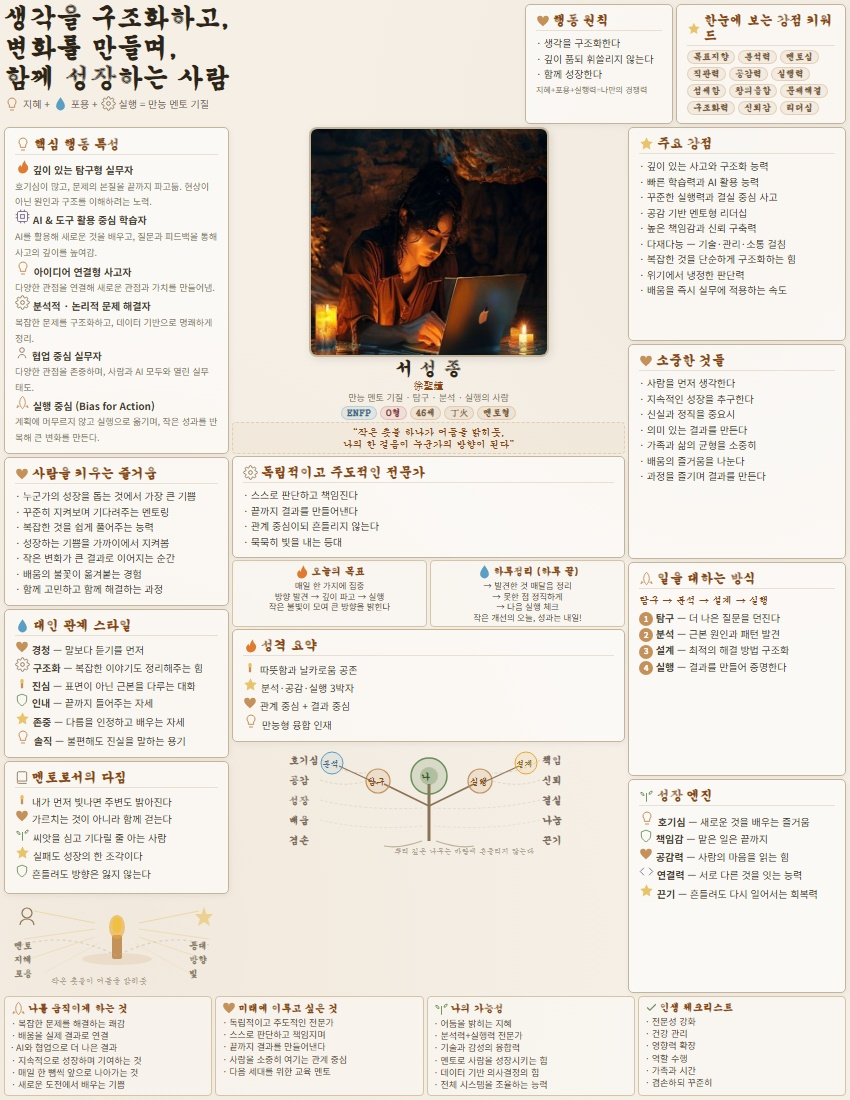
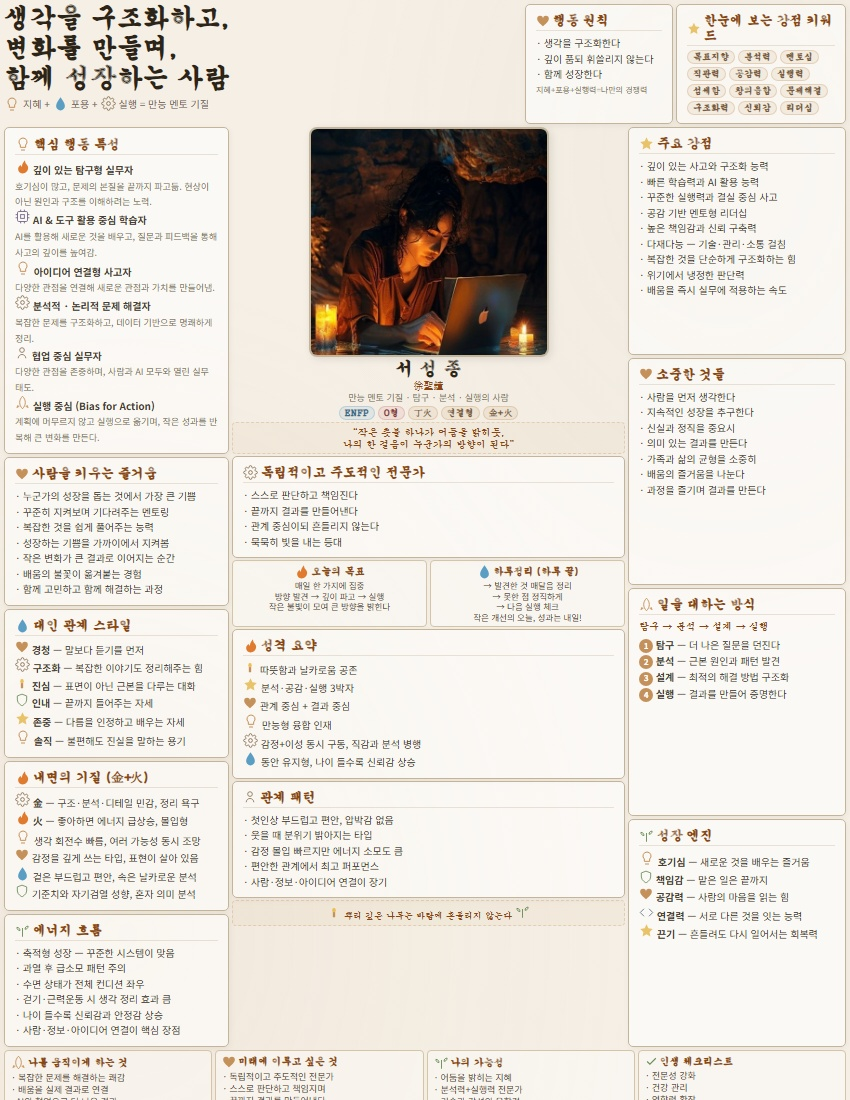
feat(infographic): 관상·성향 데이터 기반 대폭 개편
ssj-summary:
- 46세 제거, 멘토다짐 → '내면의 기질 (金+火)' 관상 분석 카드
- '에너지 흐름' 카드 신설 (축적형·과열주의·수면·운동)
- 성격요약 확장 (감정+이성 동시구동, 동안유지형)
- '관계 패턴' 카드 신설 (첫인상·몰입·편안한관계)
- 좌측 SVG → 콘텐츠 카드 2개로 교체 (여백 제거)
- 센터 나무SVG → 명언 quote 교체 (여백 제거)
- 태그: ENFP / O형 / 丁火 / 연결형 / 金+火

diff --git a/docs/ssj/ssj-infographic.html b/docs/ssj/ssj-infographic.html
@@ -105,50 +105,26 @@ body{width:850px;height:1100px;background:#f5efe6;
       </ul>
     </div>
     <div class="card">
-      <h3><svg viewBox="0 0 24 24" width="14" height="14" fill="none" stroke="#8b7355" stroke-width="1.5"><path d="M4 19V5a2 2 0 0 1 2-2h12a2 2 0 0 1 2 2v14H6a2 2 0 0 0 0 4h14"/></svg> 멘토로서의 다짐</h3>
+      <h3><svg viewBox="0 0 24 24" width="15" height="15" fill="#e07a2f" stroke="none"><path d="M12 23c-4 0-7-3-7-7 0-3 2-5 4-7 0 2 1 3 2 3 0-4 3-8 5-10 0 3 1 5 2 6 2 2 3 4 3 6 0 5-4 9-9 9z"/></svg> 내면의 기질 (金+火)</h3>
       <ul>
-        <li><svg viewBox="0 0 24 24" width="14" height="14"><rect x="10" y="12" width="4" height="9" rx="1" fill="#c4915a"/><ellipse cx="12" cy="9" rx="3" ry="4" fill="#e8a836" opacity=".7"/><ellipse cx="12" cy="8" rx="1.5" ry="2.5" fill="#f0c040"/></svg> 내가 먼저 빛나면 주변도 밝아진다</li>
-        <li><svg viewBox="0 0 24 24" width="14" height="14" fill="#c4915a" stroke="none"><path d="M12 21C8 17 2 13 2 8a5 5 0 0 1 10 0 5 5 0 0 1 10 0c0 5-6 9-10 13z"/></svg> 가르치는 것이 아니라 함께 걷는다</li>
-        <li><svg viewBox="0 0 24 24" width="15" height="15" fill="none" stroke="#6b8e5a" stroke-width="1.5"><path d="M12 22V8M8 12c-3 0-5-2-5-5 3 0 5 2 5 5M16 10c3 0 5-2 5-5-3 0-5 2-5 5"/></svg> 씨앗을 심고 기다릴 줄 아는 사람</li>
-        <li><svg viewBox="0 0 24 24" width="15" height="15" fill="#e8c36a" stroke="none"><path d="M12 2l3 6.5 7 1-5 5 1.2 7L12 18l-6.2 3.5L7 14.5l-5-5 7-1z"/></svg> 실패도 성장의 한 조각이다</li>
-        <li><svg viewBox="0 0 24 24" width="14" height="14" fill="none" stroke="#6b8e5a" stroke-width="1.5"><path d="M12 22s8-4 8-10V5l-8-3-8 3v7c0 6 8 10 8 10z"/></svg> 흔들려도 방향은 잃지 않는다</li>
+        <li><svg viewBox="0 0 24 24" width="15" height="15" fill="none" stroke="#8b7355" stroke-width="1.5"><path d="M12 15a3 3 0 1 0 0-6 3 3 0 0 0 0 6z"/><path d="M19.4 15a1.65 1.65 0 0 0 .33 1.82l.06.06a2 2 0 1 1-2.83 2.83l-.06-.06a1.65 1.65 0 0 0-1.82-.33 1.65 1.65 0 0 0-1 1.51V21a2 2 0 0 1-4 0v-.09A1.65 1.65 0 0 0 9 19.4a1.65 1.65 0 0 0-1.82.33l-.06.06a2 2 0 1 1-2.83-2.83l.06-.06A1.65 1.65 0 0 0 4.68 15a1.65 1.65 0 0 0-1.51-1H3a2 2 0 0 1 0-4h.09A1.65 1.65 0 0 0 4.6 9a1.65 1.65 0 0 0-.33-1.82l-.06-.06a2 2 0 1 1 2.83-2.83l.06.06A1.65 1.65 0 0 0 9 4.68a1.65 1.65 0 0 0 1-1.51V3a2 2 0 0 1 4 0v.09a1.65 1.65 0 0 0 1 1.51 1.65 1.65 0 0 0 1.82-.33l.06-.06a2 2 0 1 1 2.83 2.83l-.06.06A1.65 1.65 0 0 0 19.4 9a1.65 1.65 0 0 0 1.51 1H21a2 2 0 0 1 0 4h-.09a1.65 1.65 0 0 0-1.51 1z"/></svg> <b>金</b> — 구조·분석·디테일 민감, 정리 욕구</li>
+        <li><svg viewBox="0 0 24 24" width="15" height="15" fill="#e07a2f" stroke="none"><path d="M12 23c-4 0-7-3-7-7 0-3 2-5 4-7 0 2 1 3 2 3 0-4 3-8 5-10 0 3 1 5 2 6 2 2 3 4 3 6 0 5-4 9-9 9z"/></svg> <b>火</b> — 좋아하면 에너지 급상승, 몰입형</li>
+        <li><svg viewBox="0 0 24 24" width="16" height="16" fill="none" stroke="#c4915a" stroke-width="1.5"><path d="M9 21h6M12 3a6 6 0 0 0-4 10.5V17h8v-3.5A6 6 0 0 0 12 3z"/></svg> 생각 회전수 빠름, 여러 가능성 동시 조망</li>
+        <li><svg viewBox="0 0 24 24" width="14" height="14" fill="#c4915a" stroke="none"><path d="M12 21C8 17 2 13 2 8a5 5 0 0 1 10 0 5 5 0 0 1 10 0c0 5-6 9-10 13z"/></svg> 감정을 깊게 쓰는 타입, 표현이 살아 있음</li>
+        <li><svg viewBox="0 0 24 24" width="15" height="15" fill="#5a9ec4" stroke="none"><path d="M12 2C8 8 5 12 5 16a7 7 0 0 0 14 0c0-4-3-8-7-14z"/></svg> 겉은 부드럽고 편안, 속은 날카로운 분석</li>
+        <li><svg viewBox="0 0 24 24" width="14" height="14" fill="none" stroke="#6b8e5a" stroke-width="1.5"><path d="M12 22s8-4 8-10V5l-8-3-8 3v7c0 6 8 10 8 10z"/></svg> 기준치와 자기검열 성향, 혼자 의미 분석</li>
       </ul>
     </div>
-    <div style="text-align:center;padding:4px 0 2px">
-      <svg width="215" height="85" viewBox="0 0 215 85">
-        <!-- 촛불 중앙 -->
-        <ellipse cx="108" cy="58" rx="35" ry="6" fill="rgba(196,145,90,.15)"/>
-        <rect x="103" y="34" width="10" height="24" rx="2" fill="#c4915a"/>
-        <ellipse cx="108" cy="26" rx="8" ry="12" fill="#e8a836" opacity=".6"/>
-        <ellipse cx="108" cy="24" rx="4.5" ry="8" fill="#f0c040"/>
-        <!-- 빛줄기 좌 -->
-        <line x1="86" y1="22" x2="25" y2="10" stroke="#e8c36a" stroke-width="1" opacity=".45"/>
-        <line x1="86" y1="28" x2="15" y2="38" stroke="#e8c36a" stroke-width="1" opacity=".35"/>
-        <line x1="86" y1="36" x2="20" y2="58" stroke="#e8c36a" stroke-width="1" opacity=".3"/>
-        <line x1="90" y1="42" x2="35" y2="72" stroke="#e8c36a" stroke-width=".8" opacity=".2"/>
-        <!-- 빛줄기 우 -->
-        <line x1="130" y1="22" x2="190" y2="10" stroke="#e8c36a" stroke-width="1" opacity=".45"/>
-        <line x1="130" y1="28" x2="200" y2="38" stroke="#e8c36a" stroke-width="1" opacity=".35"/>
-        <line x1="130" y1="36" x2="195" y2="58" stroke="#e8c36a" stroke-width="1" opacity=".3"/>
-        <line x1="126" y1="42" x2="180" y2="72" stroke="#e8c36a" stroke-width=".8" opacity=".2"/>
-        <!-- 좌측 아이콘: 사람 -->
-        <circle cx="18" cy="12" r="5" fill="none" stroke="#8b7355" stroke-width="1.2"/>
-        <path d="M11 24c0-4 3.5-6 7-6s7 2 7 6" fill="none" stroke="#8b7355" stroke-width="1.2"/>
-        <!-- 우측 아이콘: 별 -->
-        <polygon points="195,6 197.5,13 204,13 199,18 201,25 195,21 189,25 191,18 186,13 192.5,13" fill="#e8c36a" opacity=".65"/>
-        <!-- 좌측 텍스트 -->
-        <text x="5" y="48" font-size="9" fill="#8a7a68" font-family="'Gaegu',cursive" font-weight="700">멘토</text>
-        <text x="5" y="62" font-size="9" fill="#8a7a68" font-family="'Gaegu',cursive" font-weight="700">지혜</text>
-        <text x="5" y="76" font-size="9" fill="#8a7a68" font-family="'Gaegu',cursive" font-weight="700">포용</text>
-        <!-- 우측 텍스트 -->
-        <text x="180" y="48" font-size="9" fill="#8a7a68" font-family="'Gaegu',cursive" font-weight="700">등대</text>
-        <text x="180" y="62" font-size="9" fill="#8a7a68" font-family="'Gaegu',cursive" font-weight="700">방향</text>
-        <text x="180" y="76" font-size="9" fill="#8a7a68" font-family="'Gaegu',cursive" font-weight="700">빛</text>
-        <!-- 경로 점선 -->
-        <path d="M12 44 Q60 30 108 55 Q155 30 200 44" fill="none" stroke="#c4b49a" stroke-width="1.2" stroke-dasharray="3,3" opacity=".45"/>
-        <!-- 하단 명언 -->
-        <text x="42" y="83" font-size="8" fill="#8a7a68" font-family="'Gaegu',cursive" opacity=".6">작은 촛불이 어둠을 밝히듯</text>
-      </svg>
+    <div class="card">
+      <h3><svg viewBox="0 0 24 24" width="15" height="15" fill="none" stroke="#6b8e5a" stroke-width="1.5"><path d="M12 22V8M8 12c-3 0-5-2-5-5 3 0 5 2 5 5M16 10c3 0 5-2 5-5-3 0-5 2-5 5"/></svg> 에너지 흐름</h3>
+      <ul>
+        <li>&middot; 축적형 성장 — 꾸준한 시스템이 맞음</li>
+        <li>&middot; 과열 후 급소모 패턴 주의</li>
+        <li>&middot; 수면 상태가 전체 컨디션 좌우</li>
+        <li>&middot; 걷기·근력운동 시 생각 정리 효과 큼</li>
+        <li>&middot; 나이 들수록 신뢰감과 안정감 상승</li>
+        <li>&middot; 사람·정보·아이디어 연결이 핵심 장점</li>
+      </ul>
     </div>
   </div>
 
@@ -161,9 +137,9 @@ body{width:850px;height:1100px;background:#f5efe6;
       <div style="margin-top:2px;display:flex;gap:3px;justify-content:center">
         <span class="tag" style="background:rgba(90,158,196,.12);border-color:rgba(90,158,196,.3);color:#3a6a8a">ENFP</span>
         <span class="tag" style="background:rgba(196,90,90,.10);border-color:rgba(196,90,90,.25);color:#8a3a3a">O형</span>
-        <span class="tag">46세</span>
         <span class="tag">丁火</span>
-        <span class="tag">멘토형</span>
+        <span class="tag">연결형</span>
+        <span class="tag">金+火</span>
       </div>
     </div>
     <div class="quote">
@@ -195,58 +171,22 @@ body{width:850px;height:1100px;background:#f5efe6;
         <li><svg viewBox="0 0 24 24" width="15" height="15" fill="#e8c36a" stroke="none"><path d="M12 2l3 6.5 7 1-5 5 1.2 7L12 18l-6.2 3.5L7 14.5l-5-5 7-1z"/></svg> 분석·공감·실행 3박자</li>
         <li><svg viewBox="0 0 24 24" width="14" height="14" fill="#c4915a" stroke="none"><path d="M12 21C8 17 2 13 2 8a5 5 0 0 1 10 0 5 5 0 0 1 10 0c0 5-6 9-10 13z"/></svg> 관계 중심 + 결과 중심</li>
         <li><svg viewBox="0 0 24 24" width="16" height="16" fill="none" stroke="#c4915a" stroke-width="1.5"><path d="M9 21h6M12 3a6 6 0 0 0-4 10.5V17h8v-3.5A6 6 0 0 0 12 3z"/></svg> 만능형 융합 인재</li>
+        <li><svg viewBox="0 0 24 24" width="15" height="15" fill="none" stroke="#8b7355" stroke-width="1.5"><path d="M12 15a3 3 0 1 0 0-6 3 3 0 0 0 0 6z"/><path d="M19.4 15a1.65 1.65 0 0 0 .33 1.82l.06.06a2 2 0 1 1-2.83 2.83l-.06-.06a1.65 1.65 0 0 0-1.82-.33 1.65 1.65 0 0 0-1 1.51V21a2 2 0 0 1-4 0v-.09A1.65 1.65 0 0 0 9 19.4a1.65 1.65 0 0 0-1.82.33l-.06.06a2 2 0 1 1-2.83-2.83l.06-.06A1.65 1.65 0 0 0 4.68 15a1.65 1.65 0 0 0-1.51-1H3a2 2 0 0 1 0-4h.09A1.65 1.65 0 0 0 4.6 9a1.65 1.65 0 0 0-.33-1.82l-.06-.06a2 2 0 1 1 2.83-2.83l.06.06A1.65 1.65 0 0 0 9 4.68a1.65 1.65 0 0 0 1-1.51V3a2 2 0 0 1 4 0v.09a1.65 1.65 0 0 0 1 1.51 1.65 1.65 0 0 0 1.82-.33l.06-.06a2 2 0 1 1 2.83 2.83l-.06.06A1.65 1.65 0 0 0 19.4 9a1.65 1.65 0 0 0 1.51 1H21a2 2 0 0 1 0 4h-.09a1.65 1.65 0 0 0-1.51 1z"/></svg> 감정+이성 동시 구동, 직감과 분석 병행</li>
+        <li><svg viewBox="0 0 24 24" width="15" height="15" fill="#5a9ec4" stroke="none"><path d="M12 2C8 8 5 12 5 16a7 7 0 0 0 14 0c0-4-3-8-7-14z"/></svg> 동안 유지형, 나이 들수록 신뢰감 상승</li>
       </ul>
     </div>
-    <div style="width:100%;text-align:center;padding:2px 0">
-      <svg width="290" height="110" viewBox="0 0 290 110">
-        <!-- 성장 나무 중앙 -->
-        <line x1="145" y1="95" x2="145" y2="38" stroke="#8b7355" stroke-width="3"/>
-        <circle cx="145" cy="30" r="18" fill="rgba(107,142,90,.2)" stroke="#6b8e5a" stroke-width="1.5"/>
-        <circle cx="145" cy="30" r="9" fill="rgba(107,142,90,.35)"/>
-        <text x="137" y="34" font-size="9" fill="#3a5a2a" font-weight="700" font-family="'Gaegu',cursive">나</text>
-        <!-- 좌측 가지 -->
-        <line x1="145" y1="60" x2="100" y2="38" stroke="#8b7355" stroke-width="1.8"/>
-        <circle cx="94" cy="35" r="12" fill="rgba(196,145,90,.15)" stroke="#c4915a" stroke-width="1.2"/>
-        <text x="83" y="39" font-size="9" fill="#8b4513" font-family="'Gaegu',cursive">탐구</text>
-        <!-- 우측 가지 -->
-        <line x1="145" y1="60" x2="190" y2="38" stroke="#8b7355" stroke-width="1.8"/>
-        <circle cx="196" cy="35" r="12" fill="rgba(196,145,90,.15)" stroke="#c4915a" stroke-width="1.2"/>
-        <text x="186" y="39" font-size="9" fill="#8b4513" font-family="'Gaegu',cursive">실행</text>
-        <!-- 맨좌 가지 -->
-        <line x1="94" y1="38" x2="55" y2="20" stroke="#8b7355" stroke-width="1.2"/>
-        <circle cx="48" cy="17" r="11" fill="rgba(90,158,196,.1)" stroke="#5a9ec4" stroke-width="1"/>
-        <text x="38" y="21" font-size="8.5" fill="#3a6a8a" font-family="'Gaegu',cursive">분석</text>
-        <!-- 맨우 가지 -->
-        <line x1="196" y1="38" x2="235" y2="20" stroke="#8b7355" stroke-width="1.2"/>
-        <circle cx="242" cy="17" r="11" fill="rgba(232,163,54,.1)" stroke="#e8a836" stroke-width="1"/>
-        <text x="232" y="21" font-size="8.5" fill="#8b6a13" font-family="'Gaegu',cursive">설계</text>
-        <!-- 좌측 키워드 세로 -->
-        <text x="5" y="18" font-size="10" fill="#7a6b5a" font-family="'Gaegu',cursive" font-weight="700">호기심</text>
-        <text x="5" y="38" font-size="10" fill="#7a6b5a" font-family="'Gaegu',cursive" font-weight="700">공감</text>
-        <text x="5" y="58" font-size="10" fill="#7a6b5a" font-family="'Gaegu',cursive" font-weight="700">성장</text>
-        <text x="5" y="78" font-size="10" fill="#7a6b5a" font-family="'Gaegu',cursive" font-weight="700">배움</text>
-        <text x="5" y="98" font-size="10" fill="#7a6b5a" font-family="'Gaegu',cursive" font-weight="700">겸손</text>
-        <!-- 연결선 좌 -->
-        <path d="M38 14 Q60 28 82 27" fill="none" stroke="#c4b49a" stroke-width="1" stroke-dasharray="3,2" opacity=".5"/>
-        <path d="M36 34 Q60 42 82 35" fill="none" stroke="#c4b49a" stroke-width="1" stroke-dasharray="3,2" opacity=".4"/>
-        <path d="M36 54 Q80 65 140 62" fill="none" stroke="#c4b49a" stroke-width="1" stroke-dasharray="3,2" opacity=".3"/>
-        <path d="M36 74 Q80 85 140 80" fill="none" stroke="#c4b49a" stroke-width="1" stroke-dasharray="3,2" opacity=".25"/>
-        <!-- 우측 키워드 세로 -->
-        <text x="258" y="18" font-size="10" fill="#7a6b5a" font-family="'Gaegu',cursive" font-weight="700">책임</text>
-        <text x="258" y="38" font-size="10" fill="#7a6b5a" font-family="'Gaegu',cursive" font-weight="700">신뢰</text>
-        <text x="258" y="58" font-size="10" fill="#7a6b5a" font-family="'Gaegu',cursive" font-weight="700">결실</text>
-        <text x="258" y="78" font-size="10" fill="#7a6b5a" font-family="'Gaegu',cursive" font-weight="700">나눔</text>
-        <text x="258" y="98" font-size="10" fill="#7a6b5a" font-family="'Gaegu',cursive" font-weight="700">끈기</text>
-        <!-- 연결선 우 -->
-        <path d="M256 14 Q235 28 208 27" fill="none" stroke="#c4b49a" stroke-width="1" stroke-dasharray="3,2" opacity=".5"/>
-        <path d="M256 34 Q235 42 208 35" fill="none" stroke="#c4b49a" stroke-width="1" stroke-dasharray="3,2" opacity=".4"/>
-        <path d="M256 54 Q210 65 150 62" fill="none" stroke="#c4b49a" stroke-width="1" stroke-dasharray="3,2" opacity=".3"/>
-        <path d="M256 74 Q210 85 150 80" fill="none" stroke="#c4b49a" stroke-width="1" stroke-dasharray="3,2" opacity=".25"/>
-        <!-- 뿌리 -->
-        <path d="M138 95 Q115 103 100 100" fill="none" stroke="#8b7355" stroke-width="1.2" opacity=".5"/>
-        <path d="M152 95 Q175 103 190 100" fill="none" stroke="#8b7355" stroke-width="1.2" opacity=".5"/>
-        <text x="110" y="108" font-size="7.5" fill="#8a7a68" font-family="'Gaegu',cursive" opacity=".6">뿌리 깊은 나무는 바람에 흔들리지 않는다</text>
-      </svg>
+    <div class="card" style="width:100%;text-align:left">
+      <h3><svg viewBox="0 0 24 24" width="14" height="14" fill="none" stroke="#8b7355" stroke-width="1.5"><circle cx="12" cy="7" r="4"/><path d="M5.5 21c0-3.5 3-6.5 6.5-6.5s6.5 3 6.5 6.5"/></svg> 관계 패턴</h3>
+      <ul>
+        <li>&middot; 첫인상 부드럽고 편안, 압박감 없음</li>
+        <li>&middot; 웃을 때 분위기 밝아지는 타입</li>
+        <li>&middot; 감정 몰입 빠르지만 에너지 소모도 큼</li>
+        <li>&middot; 편안한 관계에서 최고 퍼포먼스</li>
+        <li>&middot; 사람·정보·아이디어 연결이 장기</li>
+      </ul>
+    </div>
+    <div class="quote" style="width:100%">
+      <p style="font-size:9px"><svg viewBox="0 0 24 24" width="14" height="14"><rect x="10" y="12" width="4" height="9" rx="1" fill="#c4915a"/><ellipse cx="12" cy="9" rx="3" ry="4" fill="#e8a836" opacity=".7"/><ellipse cx="12" cy="8" rx="1.5" ry="2.5" fill="#f0c040"/></svg> 뿌리 깊은 나무는 바람에 흔들리지 않는다 <svg viewBox="0 0 24 24" width="15" height="15" fill="none" stroke="#6b8e5a" stroke-width="1.5"><path d="M12 22V8M8 12c-3 0-5-2-5-5 3 0 5 2 5 5M16 10c3 0 5-2 5-5-3 0-5 2-5 5"/></svg></p>
     </div>
   </div>
 

diff --git a/docs/ssj/render-ssj.py b/docs/ssj/render-ssj.py
@@ -345,50 +345,26 @@ body{{width:850px;height:1100px;background:#f5efe6;
       </ul>
     </div>
     <div class="card">
-      <h3>{I['book']} 멘토로서의 다짐</h3>
+      <h3>{I['fire']} 내면의 기질 (金+火)</h3>
       <ul>
-        <li>{I['candle']} 내가 먼저 빛나면 주변도 밝아진다</li>
-        <li>{I['heart']} 가르치는 것이 아니라 함께 걷는다</li>
-        <li>{I['plant']} 씨앗을 심고 기다릴 줄 아는 사람</li>
-        <li>{I['star']} 실패도 성장의 한 조각이다</li>
-        <li>{I['shield']} 흔들려도 방향은 잃지 않는다</li>
+        <li>{I['gear']} <b>金</b> — 구조·분석·디테일 민감, 정리 욕구</li>
+        <li>{I['fire']} <b>火</b> — 좋아하면 에너지 급상승, 몰입형</li>
+        <li>{I['bulb']} 생각 회전수 빠름, 여러 가능성 동시 조망</li>
+        <li>{I['heart']} 감정을 깊게 쓰는 타입, 표현이 살아 있음</li>
+        <li>{I['water']} 겉은 부드럽고 편안, 속은 날카로운 분석</li>
+        <li>{I['shield']} 기준치와 자기검열 성향, 혼자 의미 분석</li>
       </ul>
     </div>
-    <div style="text-align:center;padding:4px 0 2px">
-      <svg width="215" height="85" viewBox="0 0 215 85">
-        <!-- 촛불 중앙 -->
-        <ellipse cx="108" cy="58" rx="35" ry="6" fill="rgba(196,145,90,.15)"/>
-        <rect x="103" y="34" width="10" height="24" rx="2" fill="#c4915a"/>
-        <ellipse cx="108" cy="26" rx="8" ry="12" fill="#e8a836" opacity=".6"/>
-        <ellipse cx="108" cy="24" rx="4.5" ry="8" fill="#f0c040"/>
-        <!-- 빛줄기 좌 -->
-        <line x1="86" y1="22" x2="25" y2="10" stroke="#e8c36a" stroke-width="1" opacity=".45"/>
-        <line x1="86" y1="28" x2="15" y2="38" stroke="#e8c36a" stroke-width="1" opacity=".35"/>
-        <line x1="86" y1="36" x2="20" y2="58" stroke="#e8c36a" stroke-width="1" opacity=".3"/>
-        <line x1="90" y1="42" x2="35" y2="72" stroke="#e8c36a" stroke-width=".8" opacity=".2"/>
-        <!-- 빛줄기 우 -->
-        <line x1="130" y1="22" x2="190" y2="10" stroke="#e8c36a" stroke-width="1" opacity=".45"/>
-        <line x1="130" y1="28" x2="200" y2="38" stroke="#e8c36a" stroke-width="1" opacity=".35"/>
-        <line x1="130" y1="36" x2="195" y2="58" stroke="#e8c36a" stroke-width="1" opacity=".3"/>
-        <line x1="126" y1="42" x2="180" y2="72" stroke="#e8c36a" stroke-width=".8" opacity=".2"/>
-        <!-- 좌측 아이콘: 사람 -->
-        <circle cx="18" cy="12" r="5" fill="none" stroke="#8b7355" stroke-width="1.2"/>
-        <path d="M11 24c0-4 3.5-6 7-6s7 2 7 6" fill="none" stroke="#8b7355" stroke-width="1.2"/>
-        <!-- 우측 아이콘: 별 -->
-        <polygon points="195,6 197.5,13 204,13 199,18 201,25 195,21 189,25 191,18 186,13 192.5,13" fill="#e8c36a" opacity=".65"/>
-        <!-- 좌측 텍스트 -->
-        <text x="5" y="48" font-size="9" fill="#8a7a68" font-family="'Gaegu',cursive" font-weight="700">멘토</text>
-        <text x="5" y="62" font-size="9" fill="#8a7a68" font-family="'Gaegu',cursive" font-weight="700">지혜</text>
-        <text x="5" y="76" font-size="9" fill="#8a7a68" font-family="'Gaegu',cursive" font-weight="700">포용</text>
-        <!-- 우측 텍스트 -->
-        <text x="180" y="48" font-size="9" fill="#8a7a68" font-family="'Gaegu',cursive" font-weight="700">등대</text>
-        <text x="180" y="62" font-size="9" fill="#8a7a68" font-family="'Gaegu',cursive" font-weight="700">방향</text>
-        <text x="180" y="76" font-size="9" fill="#8a7a68" font-family="'Gaegu',cursive" font-weight="700">빛</text>
-        <!-- 경로 점선 -->
-        <path d="M12 44 Q60 30 108 55 Q155 30 200 44" fill="none" stroke="#c4b49a" stroke-width="1.2" stroke-dasharray="3,3" opacity=".45"/>
-        <!-- 하단 명언 -->
-        <text x="42" y="83" font-size="8" fill="#8a7a68" font-family="'Gaegu',cursive" opacity=".6">작은 촛불이 어둠을 밝히듯</text>
-      </svg>
+    <div class="card">
+      <h3>{I['plant']} 에너지 흐름</h3>
+      <ul>
+        <li>&middot; 축적형 성장 — 꾸준한 시스템이 맞음</li>
+        <li>&middot; 과열 후 급소모 패턴 주의</li>
+        <li>&middot; 수면 상태가 전체 컨디션 좌우</li>
+        <li>&middot; 걷기·근력운동 시 생각 정리 효과 큼</li>
+        <li>&middot; 나이 들수록 신뢰감과 안정감 상승</li>
+        <li>&middot; 사람·정보·아이디어 연결이 핵심 장점</li>
+      </ul>
     </div>
   </div>
 
@@ -401,9 +377,9 @@ body{{width:850px;height:1100px;background:#f5efe6;
       <div style="margin-top:2px;display:flex;gap:3px;justify-content:center">
         <span class="tag" style="background:rgba(90,158,196,.12);border-color:rgba(90,158,196,.3);color:#3a6a8a">ENFP</span>
         <span class="tag" style="background:rgba(196,90,90,.10);border-color:rgba(196,90,90,.25);color:#8a3a3a">O형</span>
-        <span class="tag">46세</span>
         <span class="tag">丁火</span>
-        <span class="tag">멘토형</span>
+        <span class="tag">연결형</span>
+        <span class="tag">金+火</span>
       </div>
     </div>
     <div class="quote">
@@ -435,58 +411,22 @@ body{{width:850px;height:1100px;background:#f5efe6;
         <li>{I['star']} 분석·공감·실행 3박자</li>
         <li>{I['heart']} 관계 중심 + 결과 중심</li>
         <li>{I['bulb']} 만능형 융합 인재</li>
+        <li>{I['gear']} 감정+이성 동시 구동, 직감과 분석 병행</li>
+        <li>{I['water']} 동안 유지형, 나이 들수록 신뢰감 상승</li>
       </ul>
     </div>
-    <div style="width:100%;text-align:center;padding:2px 0">
-      <svg width="290" height="110" viewBox="0 0 290 110">
-        <!-- 성장 나무 중앙 -->
-        <line x1="145" y1="95" x2="145" y2="38" stroke="#8b7355" stroke-width="3"/>
-        <circle cx="145" cy="30" r="18" fill="rgba(107,142,90,.2)" stroke="#6b8e5a" stroke-width="1.5"/>
-        <circle cx="145" cy="30" r="9" fill="rgba(107,142,90,.35)"/>
-        <text x="137" y="34" font-size="9" fill="#3a5a2a" font-weight="700" font-family="'Gaegu',cursive">나</text>
-        <!-- 좌측 가지 -->
-        <line x1="145" y1="60" x2="100" y2="38" stroke="#8b7355" stroke-width="1.8"/>
-        <circle cx="94" cy="35" r="12" fill="rgba(196,145,90,.15)" stroke="#c4915a" stroke-width="1.2"/>
-        <text x="83" y="39" font-size="9" fill="#8b4513" font-family="'Gaegu',cursive">탐구</text>
-        <!-- 우측 가지 -->
-        <line x1="145" y1="60" x2="190" y2="38" stroke="#8b7355" stroke-width="1.8"/>
-        <circle cx="196" cy="35" r="12" fill="rgba(196,145,90,.15)" stroke="#c4915a" stroke-width="1.2"/>
-        <text x="186" y="39" font-size="9" fill="#8b4513" font-family="'Gaegu',cursive">실행</text>
-        <!-- 맨좌 가지 -->
-        <line x1="94" y1="38" x2="55" y2="20" stroke="#8b7355" stroke-width="1.2"/>
-        <circle cx="48" cy="17" r="11" fill="rgba(90,158,196,.1)" stroke="#5a9ec4" stroke-width="1"/>
-        <text x="38" y="21" font-size="8.5" fill="#3a6a8a" font-family="'Gaegu',cursive">분석</text>
-        <!-- 맨우 가지 -->
-        <line x1="196" y1="38" x2="235" y2="20" stroke="#8b7355" stroke-width="1.2"/>
-        <circle cx="242" cy="17" r="11" fill="rgba(232,163,54,.1)" stroke="#e8a836" stroke-width="1"/>
-        <text x="232" y="21" font-size="8.5" fill="#8b6a13" font-family="'Gaegu',cursive">설계</text>
-        <!-- 좌측 키워드 세로 -->
-        <text x="5" y="18" font-size="10" fill="#7a6b5a" font-family="'Gaegu',cursive" font-weight="700">호기심</text>
-        <text x="5" y="38" font-size="10" fill="#7a6b5a" font-family="'Gaegu',cursive" font-weight="700">공감</text>
-        <text x="5" y="58" font-size="10" fill="#7a6b5a" font-family="'Gaegu',cursive" font-weight="700">성장</text>
-        <text x="5" y="78" font-size="10" fill="#7a6b5a" font-family="'Gaegu',cursive" font-weight="700">배움</text>
-        <text x="5" y="98" font-size="10" fill="#7a6b5a" font-family="'Gaegu',cursive" font-weight="700">겸손</text>
-        <!-- 연결선 좌 -->
-        <path d="M38 14 Q60 28 82 27" fill="none" stroke="#c4b49a" stroke-width="1" stroke-dasharray="3,2" opacity=".5"/>
-        <path d="M36 34 Q60 42 82 35" fill="none" stroke="#c4b49a" stroke-width="1" stroke-dasharray="3,2" opacity=".4"/>
-        <path d="M36 54 Q80 65 140 62" fill="none" stroke="#c4b49a" stroke-width="1" stroke-dasharray="3,2" opacity=".3"/>
-        <path d="M36 74 Q80 85 140 80" fill="none" stroke="#c4b49a" stroke-width="1" stroke-dasharray="3,2" opacity=".25"/>
-        <!-- 우측 키워드 세로 -->
-        <text x="258" y="18" font-size="10" fill="#7a6b5a" font-family="'Gaegu',cursive" font-weight="700">책임</text>
-        <text x="258" y="38" font-size="10" fill="#7a6b5a" font-family="'Gaegu',cursive" font-weight="700">신뢰</text>
-        <text x="258" y="58" font-size="10" fill="#7a6b5a" font-family="'Gaegu',cursive" font-weight="700">결실</text>
-        <text x="258" y="78" font-size="10" fill="#7a6b5a" font-family="'Gaegu',cursive" font-weight="700">나눔</text>
-        <text x="258" y="98" font-size="10" fill="#7a6b5a" font-family="'Gaegu',cursive" font-weight="700">끈기</text>
-        <!-- 연결선 우 -->
-        <path d="M256 14 Q235 28 208 27" fill="none" stroke="#c4b49a" stroke-width="1" stroke-dasharray="3,2" opacity=".5"/>
-        <path d="M256 34 Q235 42 208 35" fill="none" stroke="#c4b49a" stroke-width="1" stroke-dasharray="3,2" opacity=".4"/>
-        <path d="M256 54 Q210 65 150 62" fill="none" stroke="#c4b49a" stroke-width="1" stroke-dasharray="3,2" opacity=".3"/>
-        <path d="M256 74 Q210 85 150 80" fill="none" stroke="#c4b49a" stroke-width="1" stroke-dasharray="3,2" opacity=".25"/>
-        <!-- 뿌리 -->
-        <path d="M138 95 Q115 103 100 100" fill="none" stroke="#8b7355" stroke-width="1.2" opacity=".5"/>
-        <path d="M152 95 Q175 103 190 100" fill="none" stroke="#8b7355" stroke-width="1.2" opacity=".5"/>
-        <text x="110" y="108" font-size="7.5" fill="#8a7a68" font-family="'Gaegu',cursive" opacity=".6">뿌리 깊은 나무는 바람에 흔들리지 않는다</text>
-      </svg>
+    <div class="card" style="width:100%;text-align:left">
+      <h3>{I['person']} 관계 패턴</h3>
+      <ul>
+        <li>&middot; 첫인상 부드럽고 편안, 압박감 없음</li>
+        <li>&middot; 웃을 때 분위기 밝아지는 타입</li>
+        <li>&middot; 감정 몰입 빠르지만 에너지 소모도 큼</li>
+        <li>&middot; 편안한 관계에서 최고 퍼포먼스</li>
+        <li>&middot; 사람·정보·아이디어 연결이 장기</li>
+      </ul>
+    </div>
+    <div class="quote" style="width:100%">
+      <p style="font-size:9px">{I['candle']} 뿌리 깊은 나무는 바람에 흔들리지 않는다 {I['plant']}</p>
     </div>
   </div>
 
